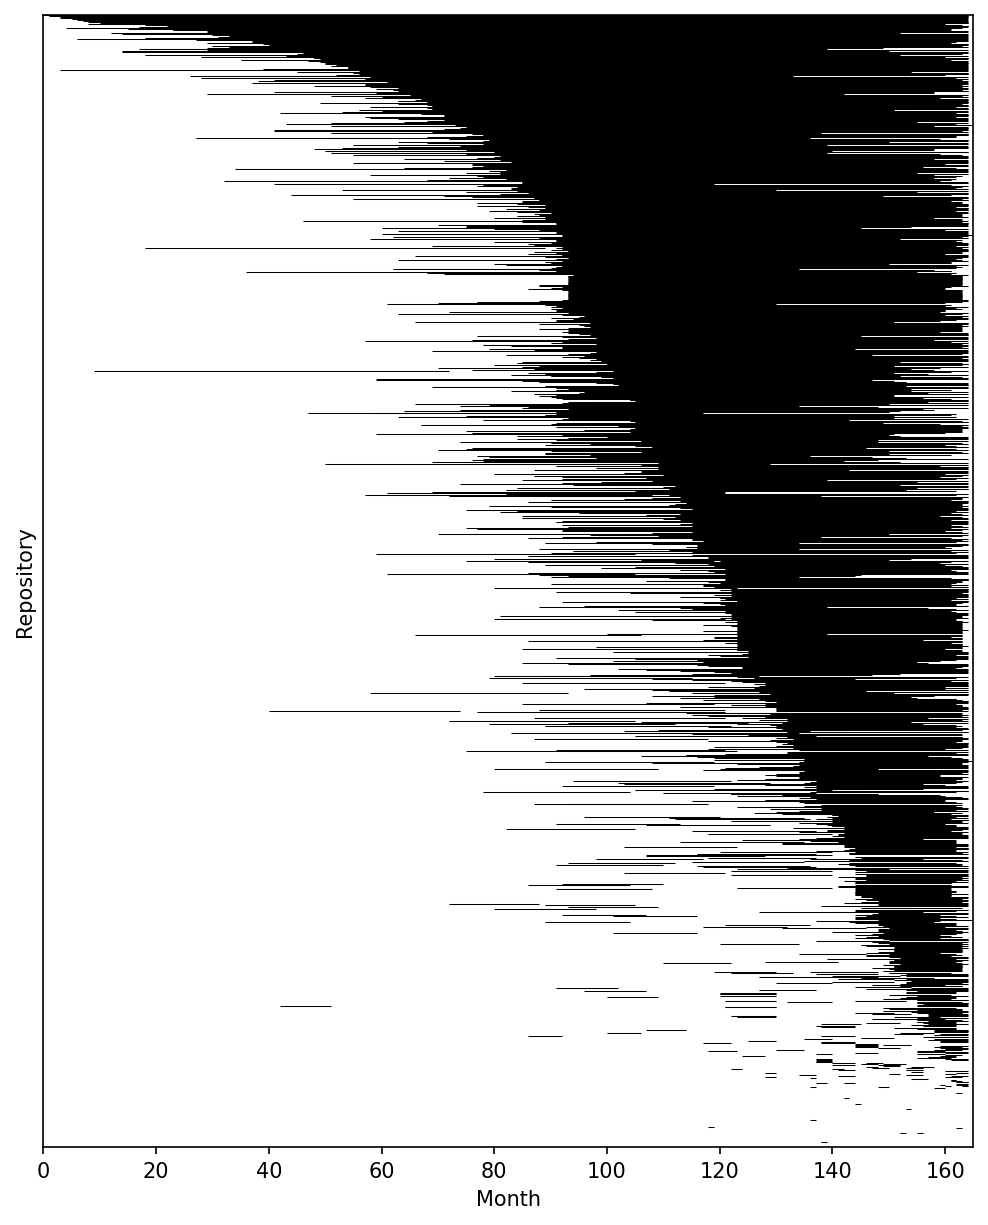
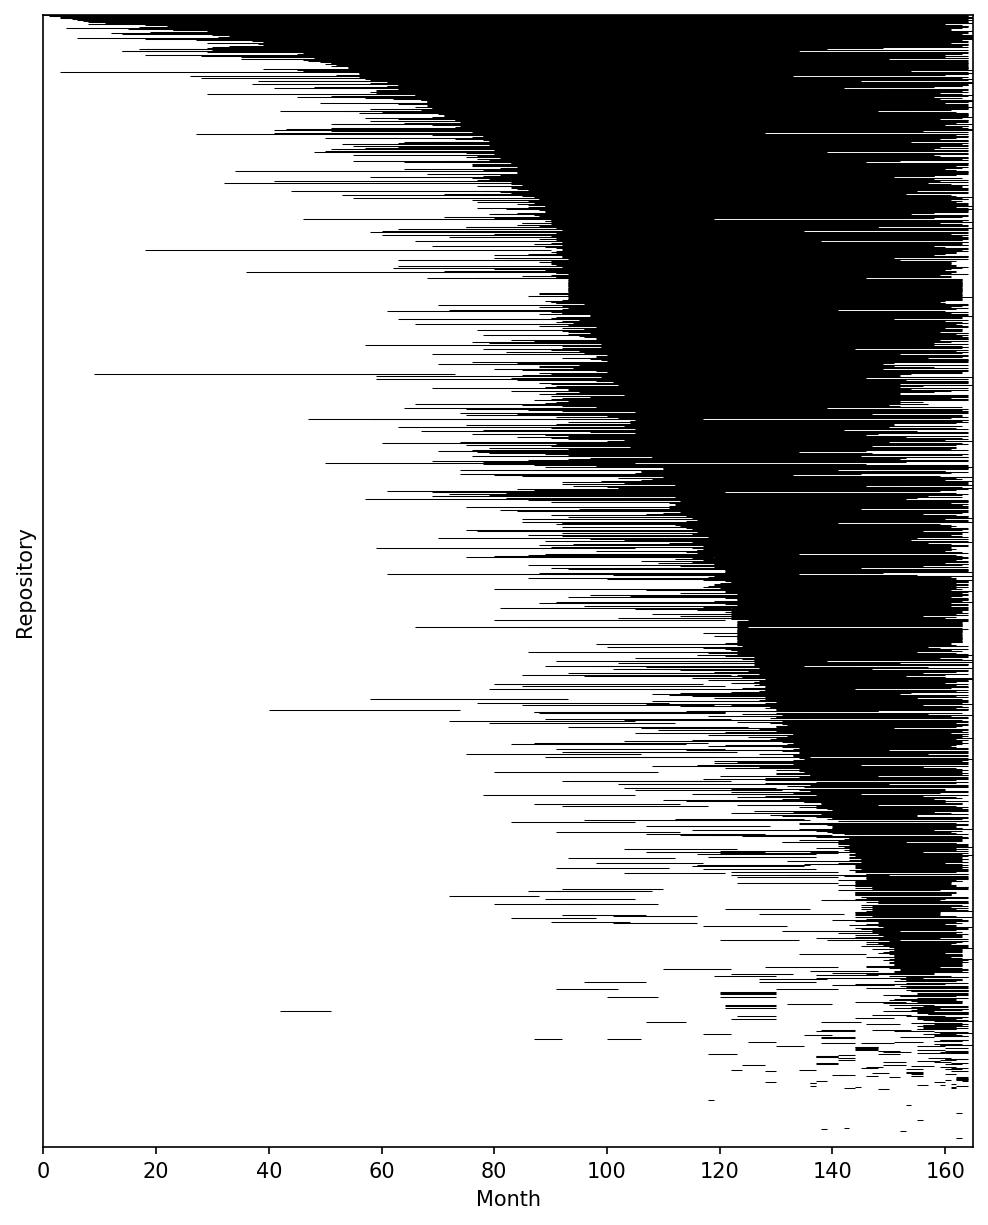
update images for report, add implications section

Changed region(s): [[0.2126, 0.031, 1.0, 0.8996], [0.3947, 0.5584, 0.4555, 0.5894], [0.0911, 0.031, 0.1518, 0.062]]

diff --git a/report/report.tex b/report/report.tex
@@ -176,7 +176,7 @@ Section \ref{related} outlines other research which has utilized survival analys
 Section \ref{data} describes the source of the data set, the data set itself, and the required preparation in order to perform survival analysis.
 Section \ref{methods} covers the methods used for the replication, additional frequentist analysis, and Bayesian analysis.
 Section \ref{results} shows the results for each analysis.
-Section \ref{discussion} discusses the comparative differences between the analyses performed, the limitations of the study, and suggestions for future work on the topic.
+Section \ref{discussion} discusses the comparative differences between the analyses performed, the limitations of the study, implications, and suggestions for future work on the topic.
 The final section concludes by summarizing the purpose and findings of this paper.
 
 \section{Related Work} \label{related}
@@ -268,7 +268,12 @@ For this study, the death of a project is determined in the following way:
 \begin{figure}[ht]
 \centering
 \includegraphics[scale=0.4]{figure1.jpg}
-\caption{Graph of project timelines within the given time frame. The projects are ordered by duration and plotted from and to their respective start and end dates. Month 0 begins on May 9, 2005, and Month 165 concludes on January 1, 2018.}
+\caption{
+    Graph of project durations within the studied time frame.
+    The projects are ordered by duration and plotted from and to their respective start and end dates.
+    Month 0 begins on May 9, 2005, and Month 165 concludes on January 1, 2018.
+    The black portion of the horizontal lines indicates the active period of a given project
+    }
 \label{fig:figure-1}
 \end{figure}
 
@@ -360,23 +365,23 @@ For the type of hosting used, we see that ratio implies that projects hosted on 
     \centering
     \begin{subfigure}
         \centering
-        \includegraphics[width=0.45\textwidth]{major-releases.png}   
+        \includegraphics[width=0.45\textwidth]{img/KM-major_release.jpg}   
         \label{fig:major releases}
     \end{subfigure}
     \begin{subfigure}
         \centering 
-        \includegraphics[width=0.45\textwidth]{host_type.png}
+        \includegraphics[width=0.45\textwidth]{img/KM-host_type.jpg}
         \label{fig:host type}
     \end{subfigure}
     \vskip\baselineskip
     \begin{subfigure} 
         \centering 
-        \includegraphics[width=0.45\textwidth]{multi_repo.png}
+        \includegraphics[width=0.45\textwidth]{img/KM-multi_repo.jpg}
         \label{fig:multi repo}
     \end{subfigure}
     \begin{subfigure}   
         \centering 
-        \includegraphics[width=0.45\textwidth]{img/author_count.png} 
+        \includegraphics[width=0.45\textwidth]{img/KM-author_count.jpg} 
         \label{fig:author count}
     \end{subfigure}
     \caption
@@ -386,7 +391,7 @@ For the type of hosting used, we see that ratio implies that projects hosted on 
 
 \begin{figure}[ht]
 \centering
-\includegraphics[scale=0.5]{cox-ratios.png}
+\includegraphics[scale=0.5]{img/CoxHR-table.jpg}
 \caption{The results of running the Cox Proportional hazards tool on the data. \keanu{we definitely want better descriptions for the images}}
 \label{fig:Cox}
 \end{figure}
@@ -408,7 +413,7 @@ This may be due to cox proportional model gives more consideration to the portio
 
 \begin{figure}[H]
     \centering
-    \includegraphics[scale=0.75]{commit_freq.png}
+    \includegraphics[scale=0.75]{img/KM-rev_freq.jpg}
     \caption{KM curve for the data by revision frequency \keanu{need a better caption}}
     \label{fig:freq}
 \end{figure}
@@ -524,7 +529,7 @@ It is unclear how this happened.
 
 % Not sure we need this
 %\subsubsection{Replication Challenges}
-
+\subsection{Implications} \label{implications}
 \subsection{Future Work} \label{future}
 
 \keanu{Just a couple of ideas so far}
